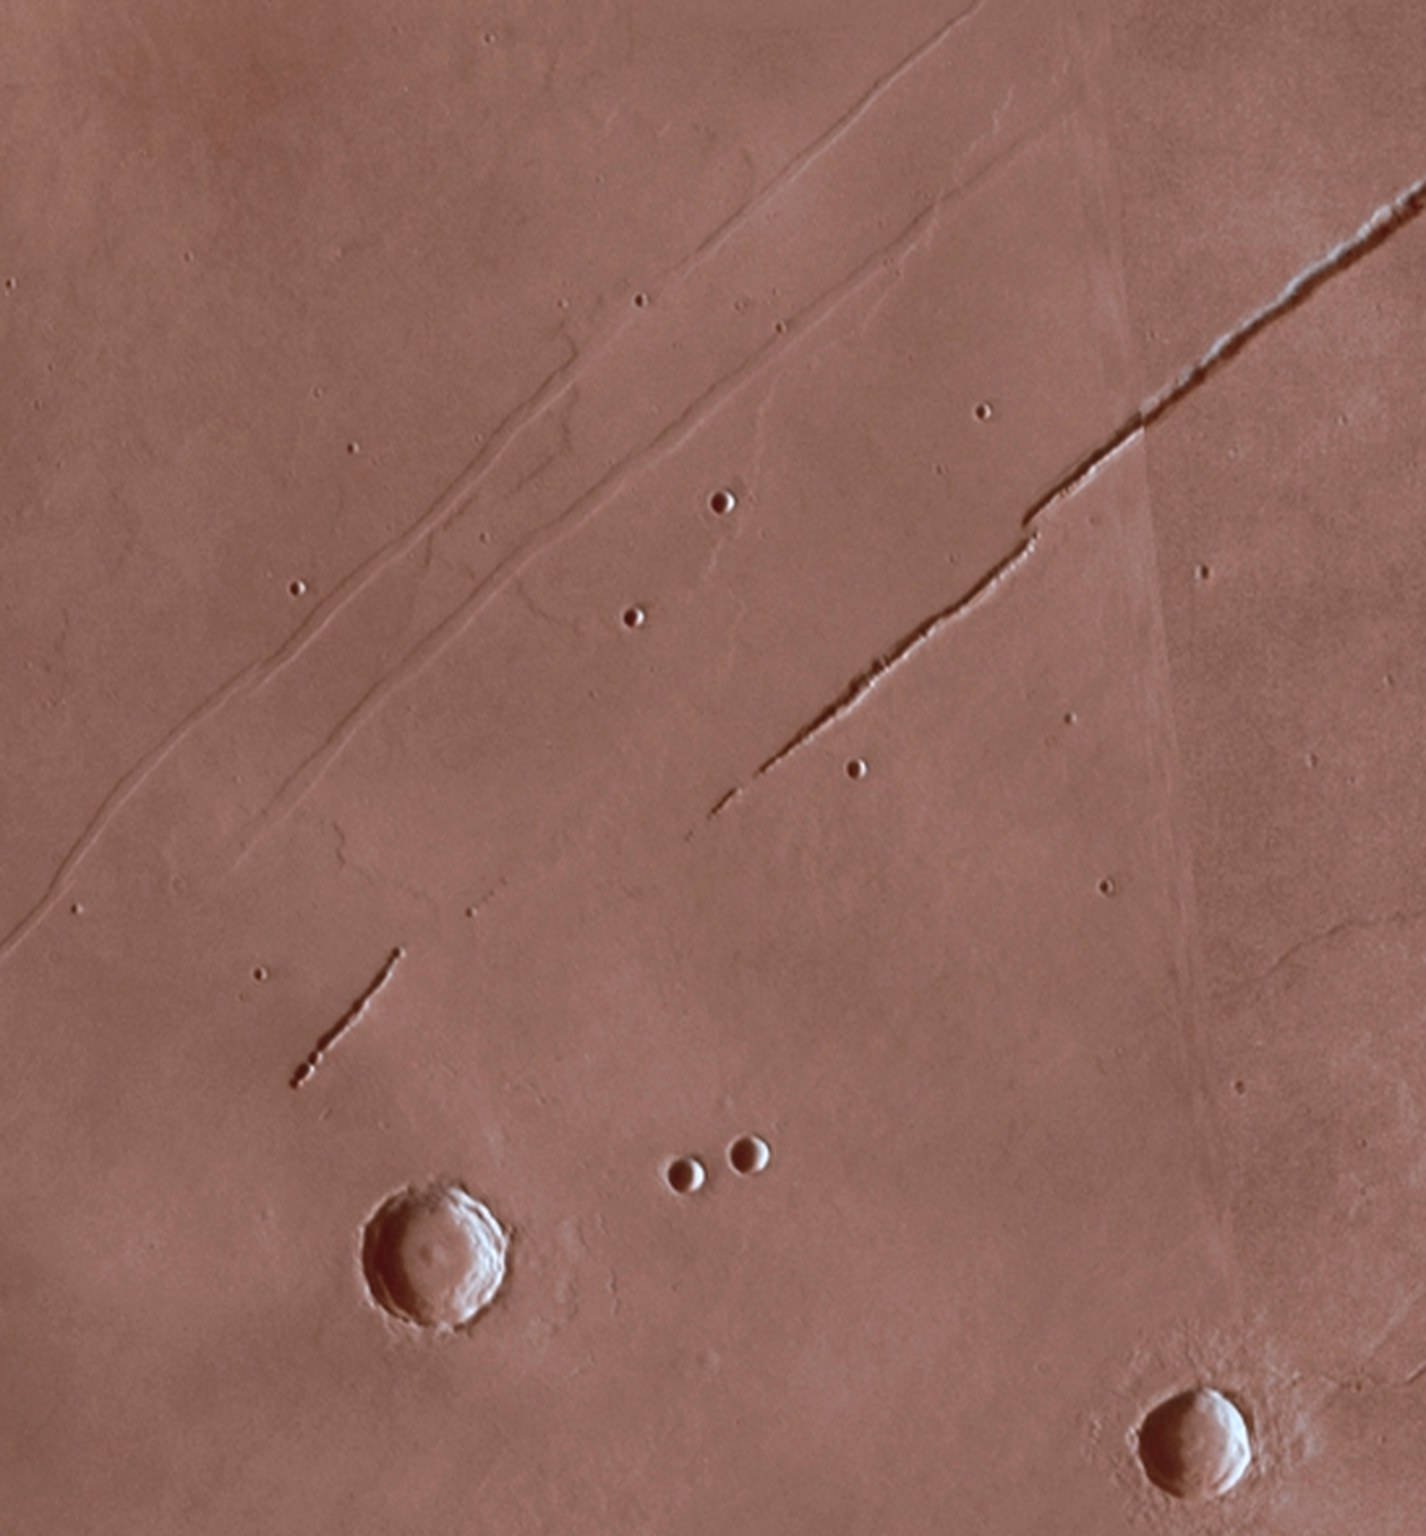
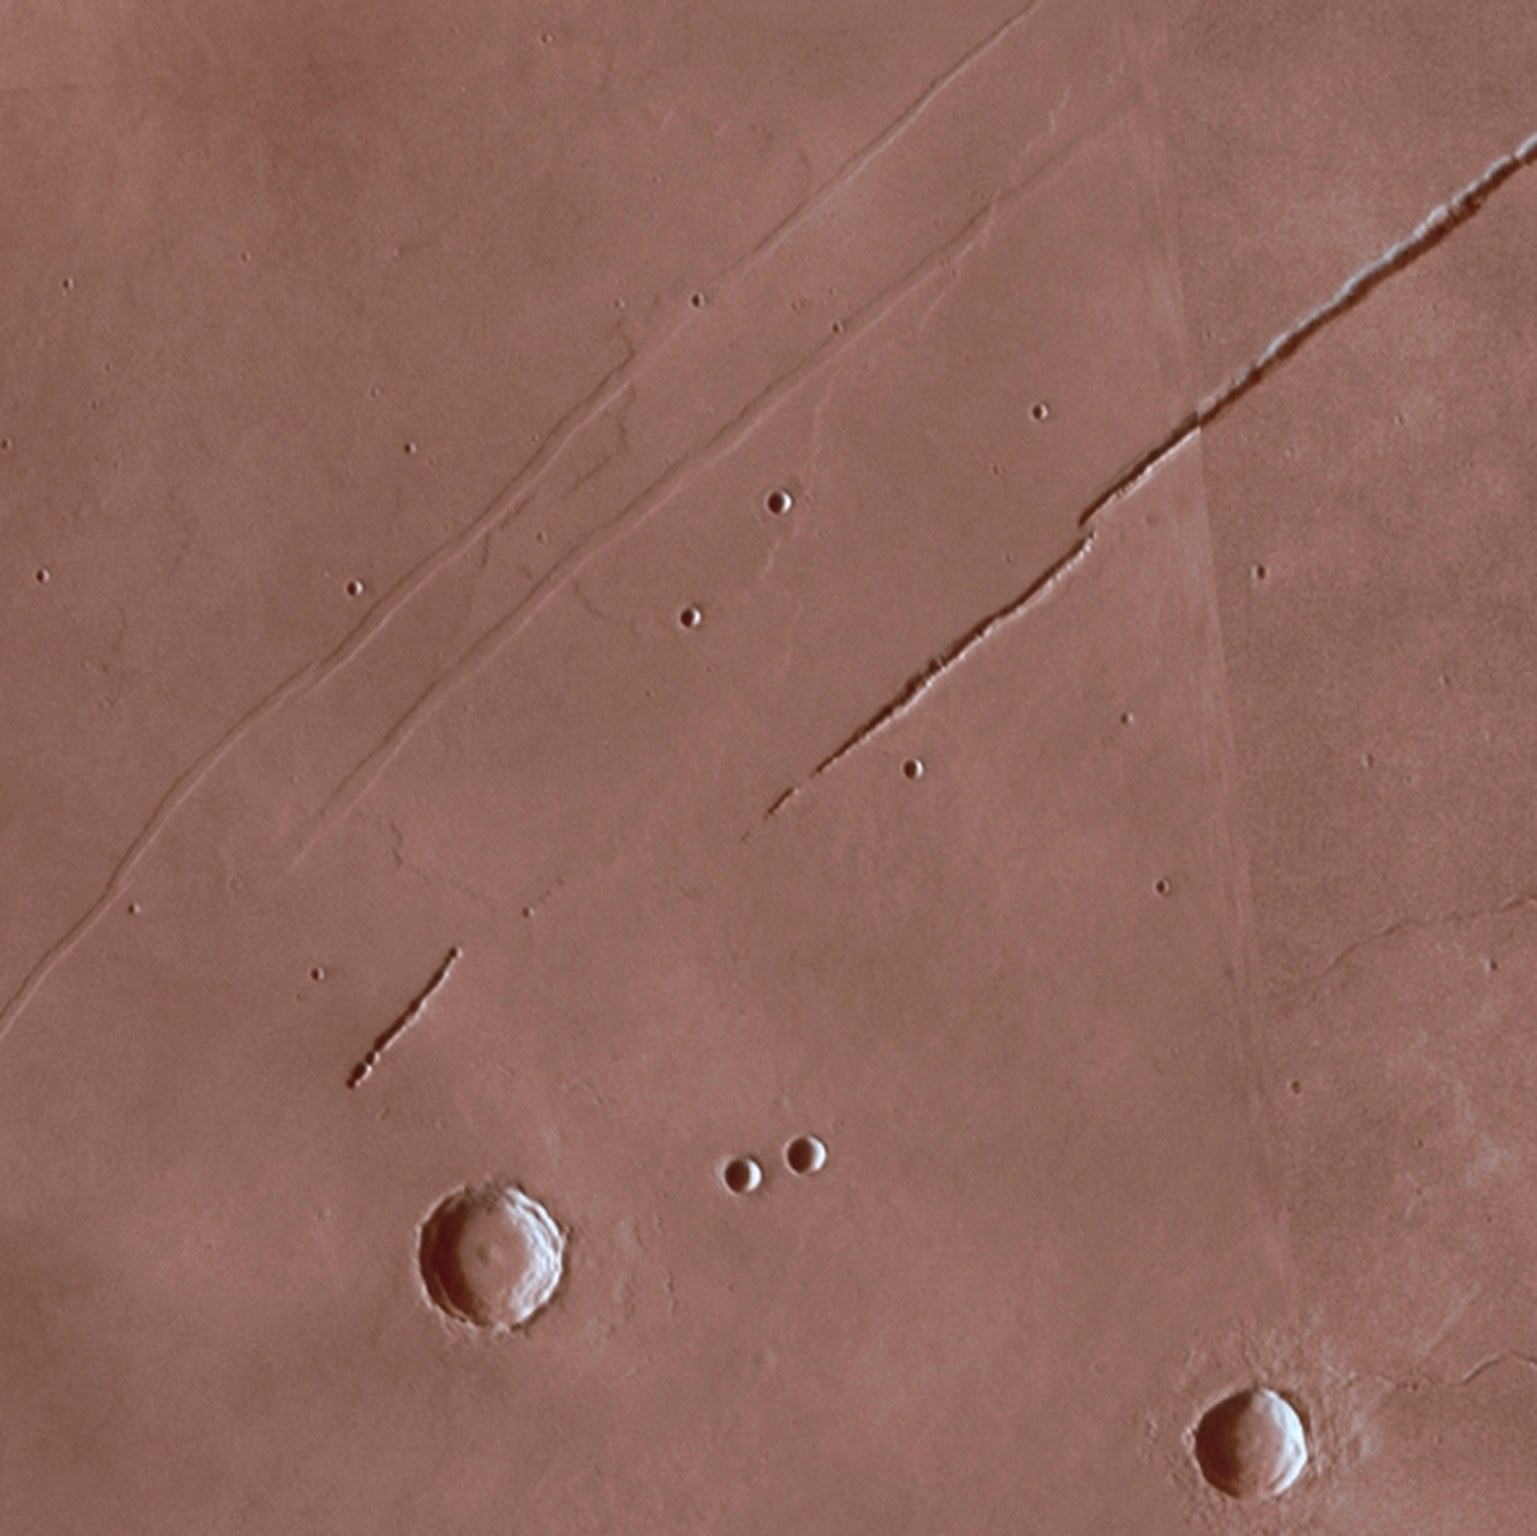
Rover glides: routes rounded at the grid corners, sprung position, heading from real motion; global sites square on the ground at every latitude, existing sites rebuilt

diff --git a/web/app.js b/web/app.js
@@ -259,7 +259,7 @@
     try {
       const r = await requestRoute(stops, departT());
       if (seq !== planSeq) return;
-      r.stopsReq = stops; S.route = r; $("planState").textContent = "";
+      smoothRoute(r); r.stopsReq = stops; S.route = r; $("planState").textContent = "";
     } catch (e) {
       if (seq !== planSeq) return;
       S.route = null; $("planState").textContent = ""; toast("No route", e.message, "#F0616B");
@@ -647,6 +647,20 @@
     if (MODE === "explore" && $("explore")) { $("exGo").textContent = "Walk again"; $("exRover").textContent = "Drive again"; setTimeout(() => { $("explore").hidden = false; }, msg ? 2500 : 0); }
     drawStops(); showRoute();
   }
+  /* The planner's path runs cell to cell (20 m at Jezero, 463 m on the global sites), so it turns in sharp 45° steps.
+     Round those corners once, for the line on the map and for the astronaut or rover moving along it. Stops stay exactly where they are. */
+  function smoothRoute(r) {
+    const n = r.x.length; if (!n || n < 4 || r._smooth) return r;
+    const pin = new Uint8Array(n); pin[0] = pin[n - 1] = 1; (r.stop_idx || []).forEach(i => { if (i >= 0 && i < n) pin[i] = 1; });
+    for (let i = 1; i < n; i++) if (r.x[i] === r.x[i - 1] && r.y[i] === r.y[i - 1]) pin[i] = pin[i - 1] = 1;          // a wait in place (sampling): keep it still
+    let x = Array.from(r.x), y = Array.from(r.y);
+    for (let pass = 0; pass < 6; pass++) {
+      const nx = x.slice(), ny = y.slice();
+      for (let i = 1; i < n - 1; i++) if (!pin[i]) { nx[i] = 0.25 * x[i - 1] + 0.5 * x[i] + 0.25 * x[i + 1]; ny[i] = 0.25 * y[i - 1] + 0.5 * y[i] + 0.25 * y[i + 1]; }
+      x = nx; y = ny;
+    }
+    r.x = x; r.y = y; r._smooth = true; return r;
+  }
   function posOn(r, el) {
     let i = 1; const t = r.t; if (walk._i && t[walk._i - 1] <= el) i = walk._i;
     while (i < t.length - 1 && t[i] < el) i++;
@@ -661,7 +675,7 @@
     setTimeout(() => { if (walk.busy) { $("hudNext").textContent = "Planning the new route…"; $("hudSub").textContent = "The clock is paused for a moment"; } }, 0);    // say so instead of freezing
     try {
       const r = await requestRoute([from, ...stops], walk.simT);
-      r.stopsReq = [from, ...stops]; walk.route = r; walk.t0 = walk.simT; walk._i = 0; walk._painted = -1; walk.dAlong = 0; walk.ri = 0; walk.px = null; walk.loose = false;
+      smoothRoute(r); r.stopsReq = [from, ...stops]; walk.route = r; walk.t0 = walk.simT; walk._i = 0; walk._painted = -1; walk.dAlong = 0; walk.ri = 0; walk.px = null; walk.loose = false;
       if (!opt.quiet) { if (opt.lead != null) guide(opt.title || "Route updated", opt.words === false ? opt.lead : `${opt.lead} ${routeWords(r, opt.oldRem)}`.trim(), color, opt.log); else toast(opt.title || "Route updated", why, color); }
       T3.dirty = true;
     } catch (e) { if (!opt.soft) toast("Could not plan a route", e.message, "#F0616B"); }
@@ -1674,7 +1688,23 @@
 
       // the astronaut: walks along the route; waits outside the airlock otherwise
       const k = T3.walker, walking = walk.on && !!k, u = astro.userData;
-      const here = walking ? P(k.x, k.y, 0) : P(IDLE[0], IDLE[1], 0); here.y = ground(walking ? k.x : IDLE[0], walking ? k.y : IDLE[1]);
+      // The rover drives a smoothed line: the route is drawn on 20 m cells and position fixes jump it, so it glides towards the planned
+      // point like a vehicle (snapping only for real teleports), and it points where it is actually going.
+      let wx = walking ? k.x : IDLE[0], wy = walking ? k.y : IDLE[1];
+      if (walking && S.vehicle === "rover") {
+        const R = T3.rvPos;
+        if (!R || Math.hypot(k.x - R.x, k.y - R.y) > 400) T3.rvPos = { x: k.x, y: k.y, vx: 0, vy: 0, hd: T3.rvPos ? T3.rvPos.hd : null };
+        else {
+          const w = 2.6 * Math.max(1, S.speed / 6), n = Math.min(60, Math.ceil(Math.min(dtr, 0.1) * w / 0.2));   // stiffer at fast time rates, so it never trails far behind
+          for (let i = 0, h = Math.min(dtr, 0.1) / n; i < n; i++) {                                             // a critically damped spring: no overshoot, no wobble
+            const ax = (k.x - R.x) * w * w - 2 * w * R.vx, ay = (k.y - R.y) * w * w - 2 * w * R.vy;
+            R.vx += ax * h; R.vy += ay * h; R.x += R.vx * h; R.y += R.vy * h;
+          }
+          if (Math.hypot(R.vx, R.vy) > 0.3) R.hd = Math.atan2(R.vx, R.vy);
+        }
+        wx = T3.rvPos.x; wy = T3.rvPos.y;
+      } else T3.rvPos = null;
+      const here = P(wx, wy, 0); here.y = ground(wx, wy);
       astro.position.copy(here);
       blob.position.copy(here); blob.position.y += 0.035;
       if (walking) {
@@ -1711,12 +1741,13 @@
       if (RV) {
         // driving: the crew are inside. Parked: beside the airlock, nose out
         const hvx = hab.position.x + M.width_m / 2 - IDLE[0], hvy = M.height_m / 2 - hab.position.z - IDLE[1], hl = Math.hypot(hvx, hvy) || 1;   // from the airlock to the dome
-        const hyT = walking && Math.hypot(k.hdx, k.hdy) > 1e-6 ? Math.atan2(k.hdx, k.hdy) : Math.atan2(-hvx, -hvy);                                   // parked nose away from the dome
+        const hyT = walking && T3.rvPos && T3.rvPos.hd != null ? T3.rvPos.hd                                                                         // the way it is actually moving
+          : walking && Math.hypot(k.hdx, k.hdy) > 1e-6 ? Math.atan2(k.hdx, k.hdy) : Math.atan2(-hvx, -hvy);                                          // parked nose away from the dome
         // a vehicle steers and rides on its suspension: ease the heading, height and tilt instead of snapping to every bend and bump
         const ez = r => 1 - Math.exp(-dtr * r);
         if (T3.rvHy == null || !walking) T3.rvHy = hyT; else T3.rvHy += Math.atan2(Math.sin(hyT - T3.rvHy), Math.cos(hyT - T3.rvHy)) * ez(2.2);
         const hy = T3.rvHy;
-        const fx = Math.sin(hy), fy = Math.cos(hy), mx0 = walking ? k.x : IDLE[0] - hvy / hl * 7, my0 = walking ? k.y : IDLE[1] + hvx / hl * 7;       // 7 m to the side of the airlock
+        const fx = Math.sin(hy), fy = Math.cos(hy), mx0 = walking ? wx : IDLE[0] - hvy / hl * 7, my0 = walking ? wy : IDLE[1] + hvx / hl * 7;       // 7 m to the side of the airlock
         const gz = (a, b) => ground(Math.min(M.width_m, Math.max(0, mx0 + a * fx - b * fy)), Math.min(M.height_m, Math.max(0, my0 + a * fy + b * fx)));
         const zf = gz(1.6, 0), zb = gz(-1.6, 0), zl = gz(0, 1.3), zr = gz(0, -1.3), yT = (zf + zb + zl + zr) / 4, pT = -Math.atan2(zf - zb, 3.2), rT = Math.atan2(zl - zr, 2.6);
         const S2 = T3.rvSus || (T3.rvSus = { y: yT, p: pT, r: rT }), big = Math.abs(S2.y - yT) > 30 || !walking;
@@ -1811,7 +1842,7 @@
       ctl.enabled = true; vrHud.visible = false; vrRad.visible = false; reticle.visible = false;
       if (T3.chase && !T3.drag) {
         const dist = chaseBase() * (T3.chaseK || 1);
-        if (walking) { const d = new THREE.Vector3(k.hdx, 0, -k.hdy); if (d.lengthSq() > 1e-9) { d.normalize(); if (!T3.dir) T3.dir = d; else T3.dir.lerp(d, 1 - Math.exp(-dtr * 1.6)).normalize(); } }   // the camera turns gently, not at every bend of the path
+        if (walking) { const d = S.vehicle === "rover" && T3.rvHy != null ? new THREE.Vector3(Math.sin(T3.rvHy), 0, -Math.cos(T3.rvHy)) : new THREE.Vector3(k.hdx, 0, -k.hdy); if (d.lengthSq() > 1e-9) { d.normalize(); if (!T3.dir) T3.dir = d; else T3.dir.lerp(d, 1 - Math.exp(-dtr * 1.6)).normalize(); } }   // the camera turns gently, not at every bend of the path
         const back = walking ? (T3.dir || new THREE.Vector3(0, 0, 1)) : new THREE.Vector3(-Math.sin(hab.rotation.y + 0.35), 0, -Math.cos(hab.rotation.y + 0.35));   // idle: stand in front of the astronaut, habitat behind
         const want = here.clone().addScaledVector(back, -dist); want.y = here.y + 1.3 + dist * 0.36;
         const gy = ground(Math.min(M.width_m, Math.max(0, want.x + M.width_m / 2)), Math.min(M.height_m, Math.max(0, M.height_m / 2 - want.z))) + 0.7; if (want.y < gy) want.y = gy;

diff --git a/web/index.html b/web/index.html
@@ -301,6 +301,6 @@
 <script src="https://cdnjs.cloudflare.com/ajax/libs/three.js/r128/three.min.js"></script>
 <script src="https://cdn.jsdelivr.net/npm/three@0.128.0/examples/js/controls/OrbitControls.js"></script>
 <script src="relayfix.js?v=1794663000"></script>
-<script src="app.js?v=1794699342"></script>
+<script src="app.js?v=1794700441"></script>
 </body>
 </html>

diff --git a/pipeline/build_site.py b/pipeline/build_site.py
@@ -68,9 +68,11 @@ def build(lat, lon, name=None, log=print):
         with rasterio.open("/vsicurl/" + MOLA) as d:
             R, res = 3396190.0, d.res[0]
             left0, top0 = d.bounds.left, d.bounds.top
-            col = int(np.clip((R * np.radians(lon) - left0) / res - N / 2, 0, d.width - N))
+            # the MOLA grid is equal-angle, so a degree of longitude shrinks towards the poles: take more columns there so the site stays square on the ground
+            NW = int(min(round(N / max(np.cos(np.radians(lat)), 0.2)), 3 * N))
+            col = int(np.clip((R * np.radians(lon) - left0) / res - NW / 2, 0, d.width - NW))
             row = int(np.clip((top0 - R * np.radians(lat)) / res - N / 2, 0, d.height - N))
-            z = d.read(1, window=Window(col, row, N, N)).astype("float32")
+            z = d.read(1, window=Window(col, row, NW, N)).astype("float32")
             nodata = d.nodata
     log(f"MOLA window {z.shape} in {time.time()-t0:.0f}s")
     valid = z != nodata
@@ -82,7 +84,7 @@ def build(lat, lon, name=None, log=print):
     DY, DX = float(res), float(res * np.cos(np.radians(lat0)))
 
     dists = np.unique(np.round(np.geomspace(DY, HORIZON_MAX_M, 30) / DY).astype(int)) * DY
-    hor = np.zeros((N_AZ, N, N), "uint8")
+    hor = np.zeros((N_AZ, N, NW), "uint8")
     for k in range(N_AZ):
         az = np.radians(k * 360.0 / N_AZ)
         best = np.zeros_like(z)
@@ -100,9 +102,9 @@ def build(lat, lon, name=None, log=print):
     np.round(z).astype("<i2").tofile(os.path.join(ROOT, "web/data/sites", sid + ".bin"))   # metres
 
     # basemap: Viking colour x MOLA relief
-    lon_a, lon_b = np.degrees(left / R), np.degrees((left + N * res) / R)
+    lon_a, lon_b = np.degrees(left / R), np.degrees((left + NW * res) / R)
     lat_b, lat_a = np.degrees(top / R), np.degrees((top - N * res) / R)
-    out_h = 1536; out_w = int(round(out_h * DX / DY))
+    out_h = 1536; out_w = int(round(out_h * NW * DX / (N * DY)))
     gr, gc = np.gradient(z, DY, DX)
     nn = np.sqrt(gc**2 + gr**2 + 1)
     shade = np.clip((gc * 0.5 + gr * 0.5 + 0.707) / nn / 0.707, 0.2, 1.5)      # light from the north-west
@@ -117,9 +119,9 @@ def build(lat, lon, name=None, log=print):
     rgb = np.clip(img * (0.62 + 0.4 * np.clip(shade[..., None], 0.3, 1.15)), 0, 255).astype("uint8")
     Image.fromarray(rgb).save(os.path.join(ROOT, "web/img/sites", sid + ".jpg"), quality=88)
 
-    cz = float(z[N // 2, N // 2])
+    cz = float(z[N // 2, NW // 2])
     meta = {
-        "W": N, "H": N, "DX": DX, "DY": DY, "width_m": N * DX, "height_m": N * DY,
+        "W": NW, "H": N, "DX": DX, "DY": DY, "width_m": NW * DX, "height_m": N * DY,
         "eqc_left": left, "eqc_top": top, "eqc_res": float(res), "R": R, "lat0": lat0, "n_az": N_AZ,
         "zmin": float(z.min()), "zmax": float(z.max()),
         "source": f"MOLA MEGDR 463 m elevation (Mars Global Surveyor); image: {src}",
